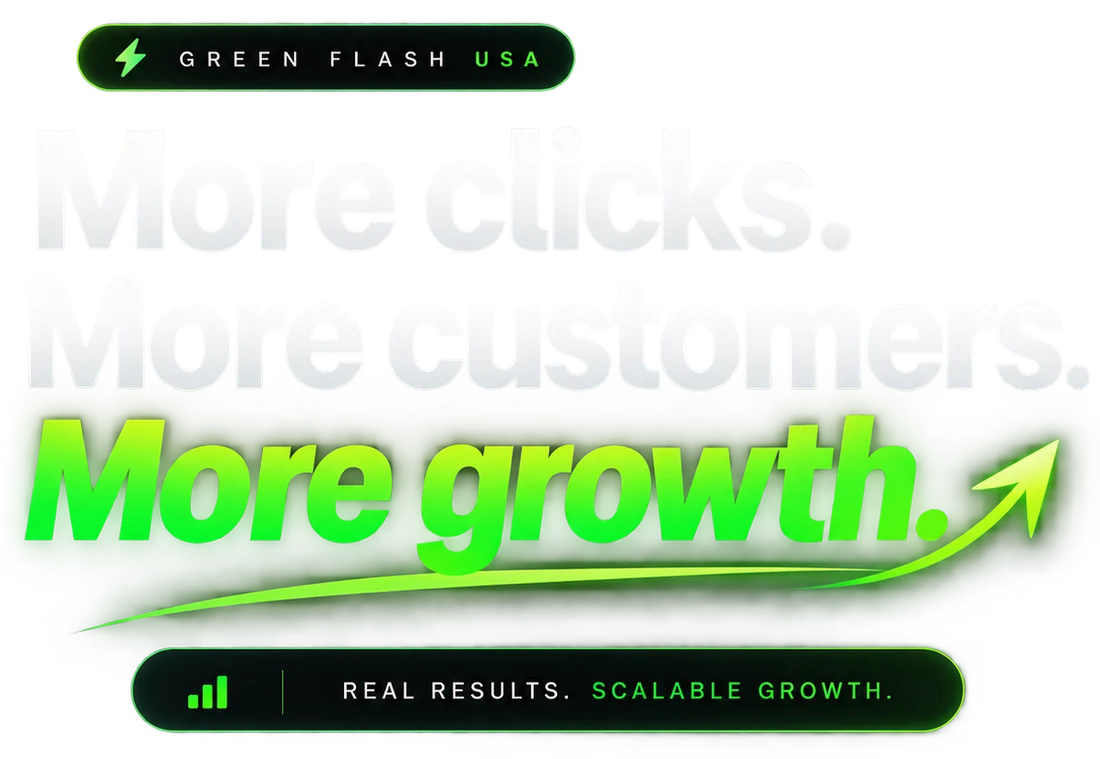
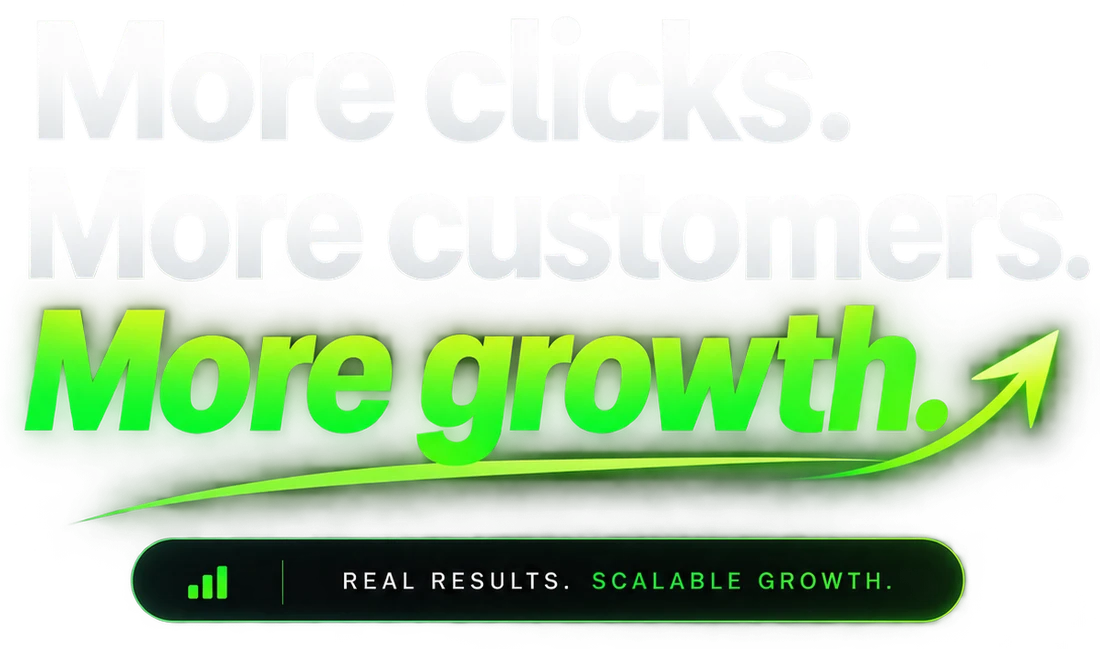
Crop the hero lockup below its Green Flash USA badge
The badge duplicated the header logo sitting an inch above it. The lockup is
re-cut from the same source starting under the pill, so the headline leads
and the arrow and results pill are untouched.

diff --git a/src/pages/home.tsx b/src/pages/home.tsx
@@ -151,8 +151,9 @@ export function HomePage() {
 
           <div className="relative mx-auto max-w-6xl px-4 pb-16 pt-12 text-center sm:px-6 md:pb-24 md:pt-20">
             <div className="stagger-in relative mx-auto max-w-3xl">
-              {/* Max's designed lockup carries the visual headline — badge,
-                  gradient type, glow, arrow, results pill — as he built it.
+              {/* Max's designed lockup carries the visual headline — gradient
+                  type, glow, arrow, results pill — cropped below its badge,
+                  which doubled the header's branding.
                   The real heading stays in the document for search engines and
                   screen readers, just visually hidden. */}
               <h1 className="sr-only">
@@ -163,7 +164,7 @@ export function HomePage() {
                 src="/hero-lockup.webp"
                 alt=""
                 width={1100}
-                height={759}
+                height={649}
                 fetchPriority="high"
                 decoding="async"
                 className="mx-auto w-full max-w-[34rem] md:max-w-[40rem]"
